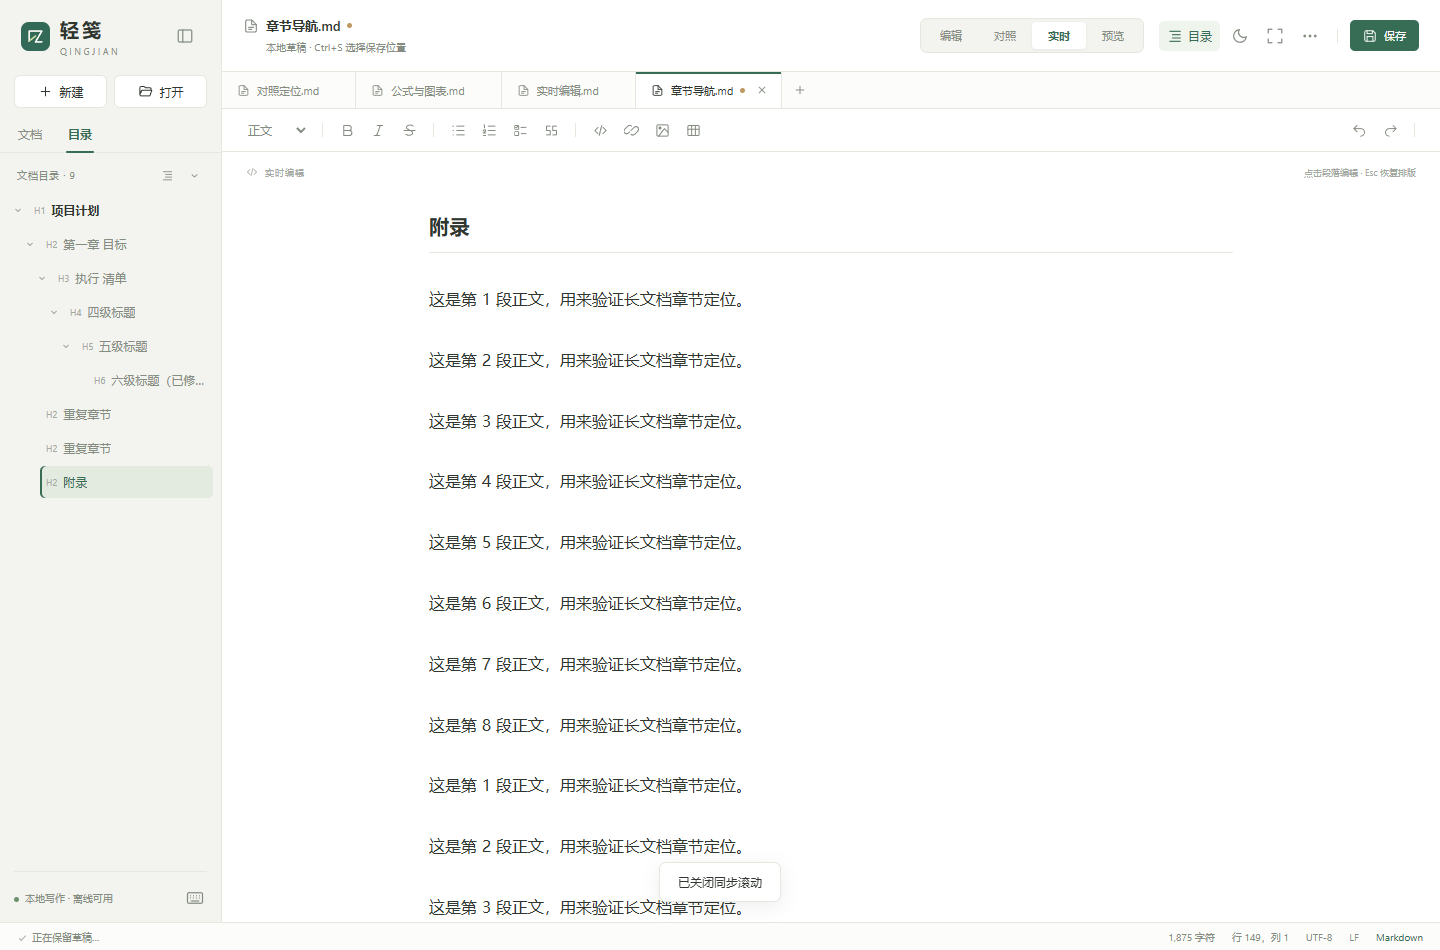
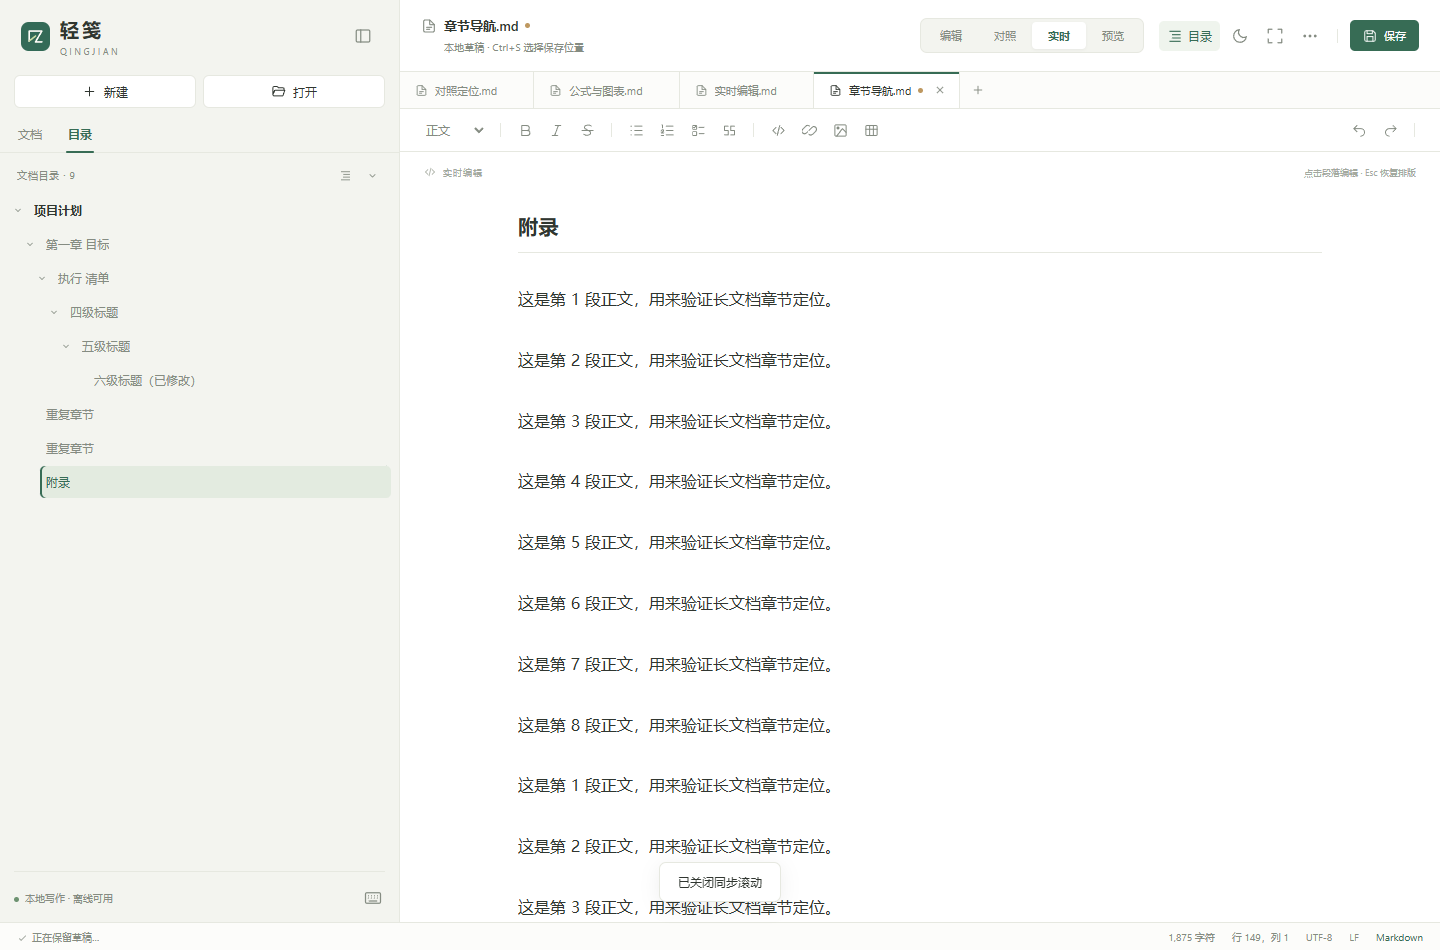
Release v0.4.2 with resizable sidebar and cleaner outline labels

diff --git a/src/style.css b/src/style.css
@@ -66,7 +66,11 @@ button { -webkit-tap-highlight-color: transparent; }
 .icon-btn:hover { color: var(--text); background: var(--hover); }
 .icon-btn.active { color: var(--accent); background: var(--accent-soft); }
 .shell { display: grid; grid-template-columns: var(--side-width) minmax(0, 1fr); grid-template-rows: minmax(0,1fr) 28px; height: 100vh; }
-.sidebar { min-height: 0; display: flex; flex-direction: column; background: var(--sidebar); border-right: 1px solid var(--border); user-select: none; }
+.sidebar { min-width: 0; min-height: 0; display: flex; flex-direction: column; background: var(--sidebar); border-right: 1px solid var(--border); user-select: none; position: relative; }
+.sidebar-resizer { position: absolute; top: 0; bottom: 0; right: -4px; width: 8px; z-index: 15; cursor: col-resize; touch-action: none; }
+.sidebar-resizer::after { content: ''; position: absolute; left: 3px; top: 0; bottom: 0; width: 2px; background: transparent; transition: background .15s; }
+.sidebar-resizer:hover::after, .sidebar-resizer:focus-visible::after, .resizing-sidebar .sidebar-resizer::after { background: var(--accent); }
+.resizing-sidebar, .resizing-sidebar * { cursor: col-resize !important; user-select: none !important; }
 .brand { height: 72px; display: flex; align-items: center; padding: 0 21px; gap: 10px; }
 .brand img { width: 29px; height: 29px; }
 .brand-name { font-size: 19px; font-weight: 650; letter-spacing: 3px; }
@@ -104,9 +108,8 @@ button { -webkit-tap-highlight-color: transparent; }
 .outline-row { display: flex; align-items: center; margin: 2px 8px; min-width: 0; }
 .outline-fold.icon-btn, .outline-fold-spacer { width: 20px; height: 28px; flex: 0 0 20px; }
 .outline-fold .icon { width: 12px; height: 12px; }
-.outline-item { display: flex; flex: 1; align-items: center; gap: 6px; min-width: 0; text-align: left; padding: 8px 6px; color: var(--muted); border-radius: 5px; font-size: 12px; }
+.outline-item { display: flex; flex: 1; align-items: center; min-width: 0; text-align: left; padding: 8px 6px; color: var(--muted); border-radius: 5px; font-size: 12px; }
 .outline-text { overflow: hidden; text-overflow: ellipsis; white-space: nowrap; }
-.outline-level { font-size: 9px; color: var(--subtle); flex-shrink: 0; font-weight: 400; }
 .outline-item:hover { color: var(--accent); background: var(--hover); }
 .outline-row.level-1 .outline-item { color: var(--text); font-weight: 600; }
 .outline-row .outline-item.active { color: var(--accent); background: var(--active); box-shadow: inset 2px 0 0 var(--accent); }
@@ -118,7 +121,7 @@ button { -webkit-tap-highlight-color: transparent; }
 .side-bottom { border-top: 1px solid var(--border); margin: 0 14px; padding: 13px 0 12px; display: flex; align-items: center; justify-content: space-between; font-size: 10px; color: var(--muted); }
 .offline-dot { width: 5px; height: 5px; background: #6d9271; border-radius: 50%; display: inline-block; margin-right: 6px; }
 .side-bottom .icon-btn { width: 25px; height: 25px; }
-.main { min-width: 0; min-height: 0; display: flex; flex-direction: column; background: var(--paper); }
+.main { min-width: 0; min-height: 0; display: flex; flex-direction: column; background: var(--paper); container: editor-shell / inline-size; }
 .file-sync-banner { display: flex; align-items: center; justify-content: space-between; gap: 12px; padding: 10px 20px; border-bottom: 1px solid var(--peer-border); background: var(--peer-bg); font-size: 12px; line-height: 1.7; }
 .file-sync-banner span { overflow-wrap: anywhere; }
 .file-sync-banner > div { display: flex; flex-shrink: 0; gap: 8px; }
@@ -257,7 +260,6 @@ kbd { font-family: "Segoe UI", sans-serif; font-size: 10px; color: var(--muted);
 [hidden] { display: none !important; }
 * { scrollbar-width: thin; scrollbar-color: var(--border) transparent; }
 @media (max-width: 1100px) {
-  :root { --side-width: 195px; }
   .topbar { padding: 0 15px; gap: 10px; }
   .mode-switch button { padding-left: 12px; padding-right: 12px; }
   .toolbar { padding: 0 10px; gap: 1px; }
@@ -270,9 +272,17 @@ kbd { font-family: "Segoe UI", sans-serif; font-size: 10px; color: var(--muted);
   .shell { grid-template-columns: 0 minmax(0,1fr); }
   .sidebar { visibility: hidden; overflow: hidden; }
   #show-sidebar { display: inline-flex; }
-  .shell.mobile-sidebar { grid-template-columns: 195px minmax(0,1fr); }
-  .mobile-sidebar .sidebar { visibility: visible; }
+  .shell.mobile-sidebar { grid-template-columns: var(--side-width) minmax(0,1fr); }
+  .mobile-sidebar:not(.focus-mode) .sidebar { visibility: visible; overflow: visible; }
   .doc-state { display: none; }
+}
+@container editor-shell (max-width: 650px) {
+  .topbar { padding: 0 10px; gap: 7px; }
+  .doc-meta { min-width: 40px; }
+  .mode-switch button { padding-left: 8px; padding-right: 8px; }
+  .top-tools { gap: 1px; }
+  .top-tools .icon-btn { width: 26px; }
+  .outline-button span { display: none; }
 }
 @media print {
   .markdown-body .peer-active { background: none !important; box-shadow: none !important; }

diff --git a/native/Program.cs b/native/Program.cs
@@ -17,7 +17,7 @@ using Microsoft.Web.WebView2.WinForms;
 
 [assembly: System.Reflection.AssemblyTitle("轻笺")]
 [assembly: System.Reflection.AssemblyDescription("轻量 Markdown 编辑器")]
-[assembly: System.Reflection.AssemblyVersion("0.4.1.0")]
+[assembly: System.Reflection.AssemblyVersion("0.4.2.0")]
 
 namespace Qingjian
 {
@@ -332,7 +332,7 @@ namespace Qingjian
                             try { opening.Add(ReadDocument(path)); }
                             catch (Exception error) { openErrors.Add(Path.GetFileName(path) + "：" + error.Message); }
                         }
-                        result = new { session = lastSession, recent = recent.ToArray(), workspace = workspace, version = "0.4.1", filesToOpen = opening, openErrors = openErrors };
+                        result = new { session = lastSession, recent = recent.ToArray(), workspace = workspace, version = "0.4.2", filesToOpen = opening, openErrors = openErrors };
                         startupFiles.Clear();
                         break;
                     case "persist": Persist(data); result = true; break;

diff --git a/native/SystemIntegration.cs b/native/SystemIntegration.cs
@@ -127,7 +127,7 @@ namespace Qingjian
                 Set(store, AppPaths + "\\" + name, "QingjianExecutable", exe);
             }
             Set(store, UninstallKey, "DisplayName", "轻笺（便携版系统注册）");
-            Set(store, UninstallKey, "DisplayVersion", "0.4.1");
+            Set(store, UninstallKey, "DisplayVersion", "0.4.2");
             Set(store, UninstallKey, "DisplayIcon", icon);
             Set(store, UninstallKey, "InstallLocation", Path.GetDirectoryName(exe));
             Set(store, UninstallKey, "UninstallString", "\"" + exe + "\" --unregister");

diff --git a/RELEASE_NOTES.md b/RELEASE_NOTES.md
@@ -1,12 +1,9 @@
-轻笺 v0.4.1 完善文档目录与章节导航。
+轻笺 v0.4.2 支持拖动侧栏宽度，并简化目录显示。
 
-- 顶部新增“目录”按钮，Ctrl+Shift+O 可显示或收起目录，入口更加明确。
-- 自动列出一至六级 Markdown 标题，支持逐级折叠、全部展开与全部收起。
-- 点击目录可跳转到对应章节，编辑、对照、实时、预览四种视图均可使用；对照模式关闭同步滚动后也会定位两侧。
-- 当前编辑或阅读章节会高亮，修改标题或读取外部文件更新后，目录自动刷新。
-- 保留重复标题的独立跳转位置，改善实时模式中含粗体、链接、代码等标题的显示。
-- 记住上次选择的“文档 / 目录”侧栏视图，适配深浅主题、小窗口和专注模式。
+- 拖动左侧栏右边界可调整目录和文件列表宽度，自动记住调整结果；双击恢复默认。
+- 目录移除 H1、H2 等文字标记，保留层级缩进、折叠、长标题省略与悬停全文。
+- 窗口缩小时自动适配侧栏宽度，恢复大窗口后沿用用户设定，正文工具栏也随可用空间调整。
 
-未增加运行依赖，继续支持 v0.4.0 的自动保存、外部修改刷新与冲突保护。
+未增加运行依赖，继续支持目录跳转、自动保存、外部文件刷新与冲突保护。
 
 下载 Windows x64 压缩包，解压后双击“轻笺.exe”。更新时先关闭旧窗口再运行新版。若程序目录改变，可使用新版“注册到打开方式.cmd”直接替换旧版注册。

diff --git a/README.md b/README.md
@@ -1,6 +1,6 @@
 # 轻笺
 
-一个离线的 Windows Markdown 编辑器，使用系统 WebView2、原生 WinForms 外壳和 CodeMirror 6。界面无需联网加载，发布包不包含 Node.js 或浏览器内核。当前版本 v0.4.1，完整程序文件约 7.8 MiB，不含系统运行时和个人缓存。
+一个离线的 Windows Markdown 编辑器，使用系统 WebView2、原生 WinForms 外壳和 CodeMirror 6。界面无需联网加载，发布包不包含 Node.js 或浏览器内核。当前版本 v0.4.2，完整程序文件约 7.8 MiB，不含系统运行时和个人缓存。
 
 从 [Releases](https://github.com/ly2u/qingjian/releases/latest) 下载 Windows x64 压缩包，解压后双击 `轻笺.exe`。请保留整个文件夹。
 
@@ -11,6 +11,8 @@
 ## 目录与大纲
 
 点击顶部“目录”，或按 `Ctrl+Shift+O` 显示、收起左侧目录；也可在左侧“文档 / 目录”之间切换。程序会记住上次选择。
+
+拖动左侧栏右边界可自由调整目录和文件列表的宽度，松开后自动记住；双击边界恢复默认宽度。目录以缩进表示层级，长标题保留省略显示与悬停完整标题，不再额外显示 H1、H2 等标记。
 
 目录由 Markdown 的 `#` 至 `######` 标题自动生成，支持点击跳转、逐级折叠、全部展开和全部收起。编辑标题或读取到外部修改后，目录自动更新；当前编辑或阅读的章节会高亮。编辑、对照、实时、预览四种视图均可使用，对照视图关闭同步滚动后，点击目录仍会定位两侧。
 
